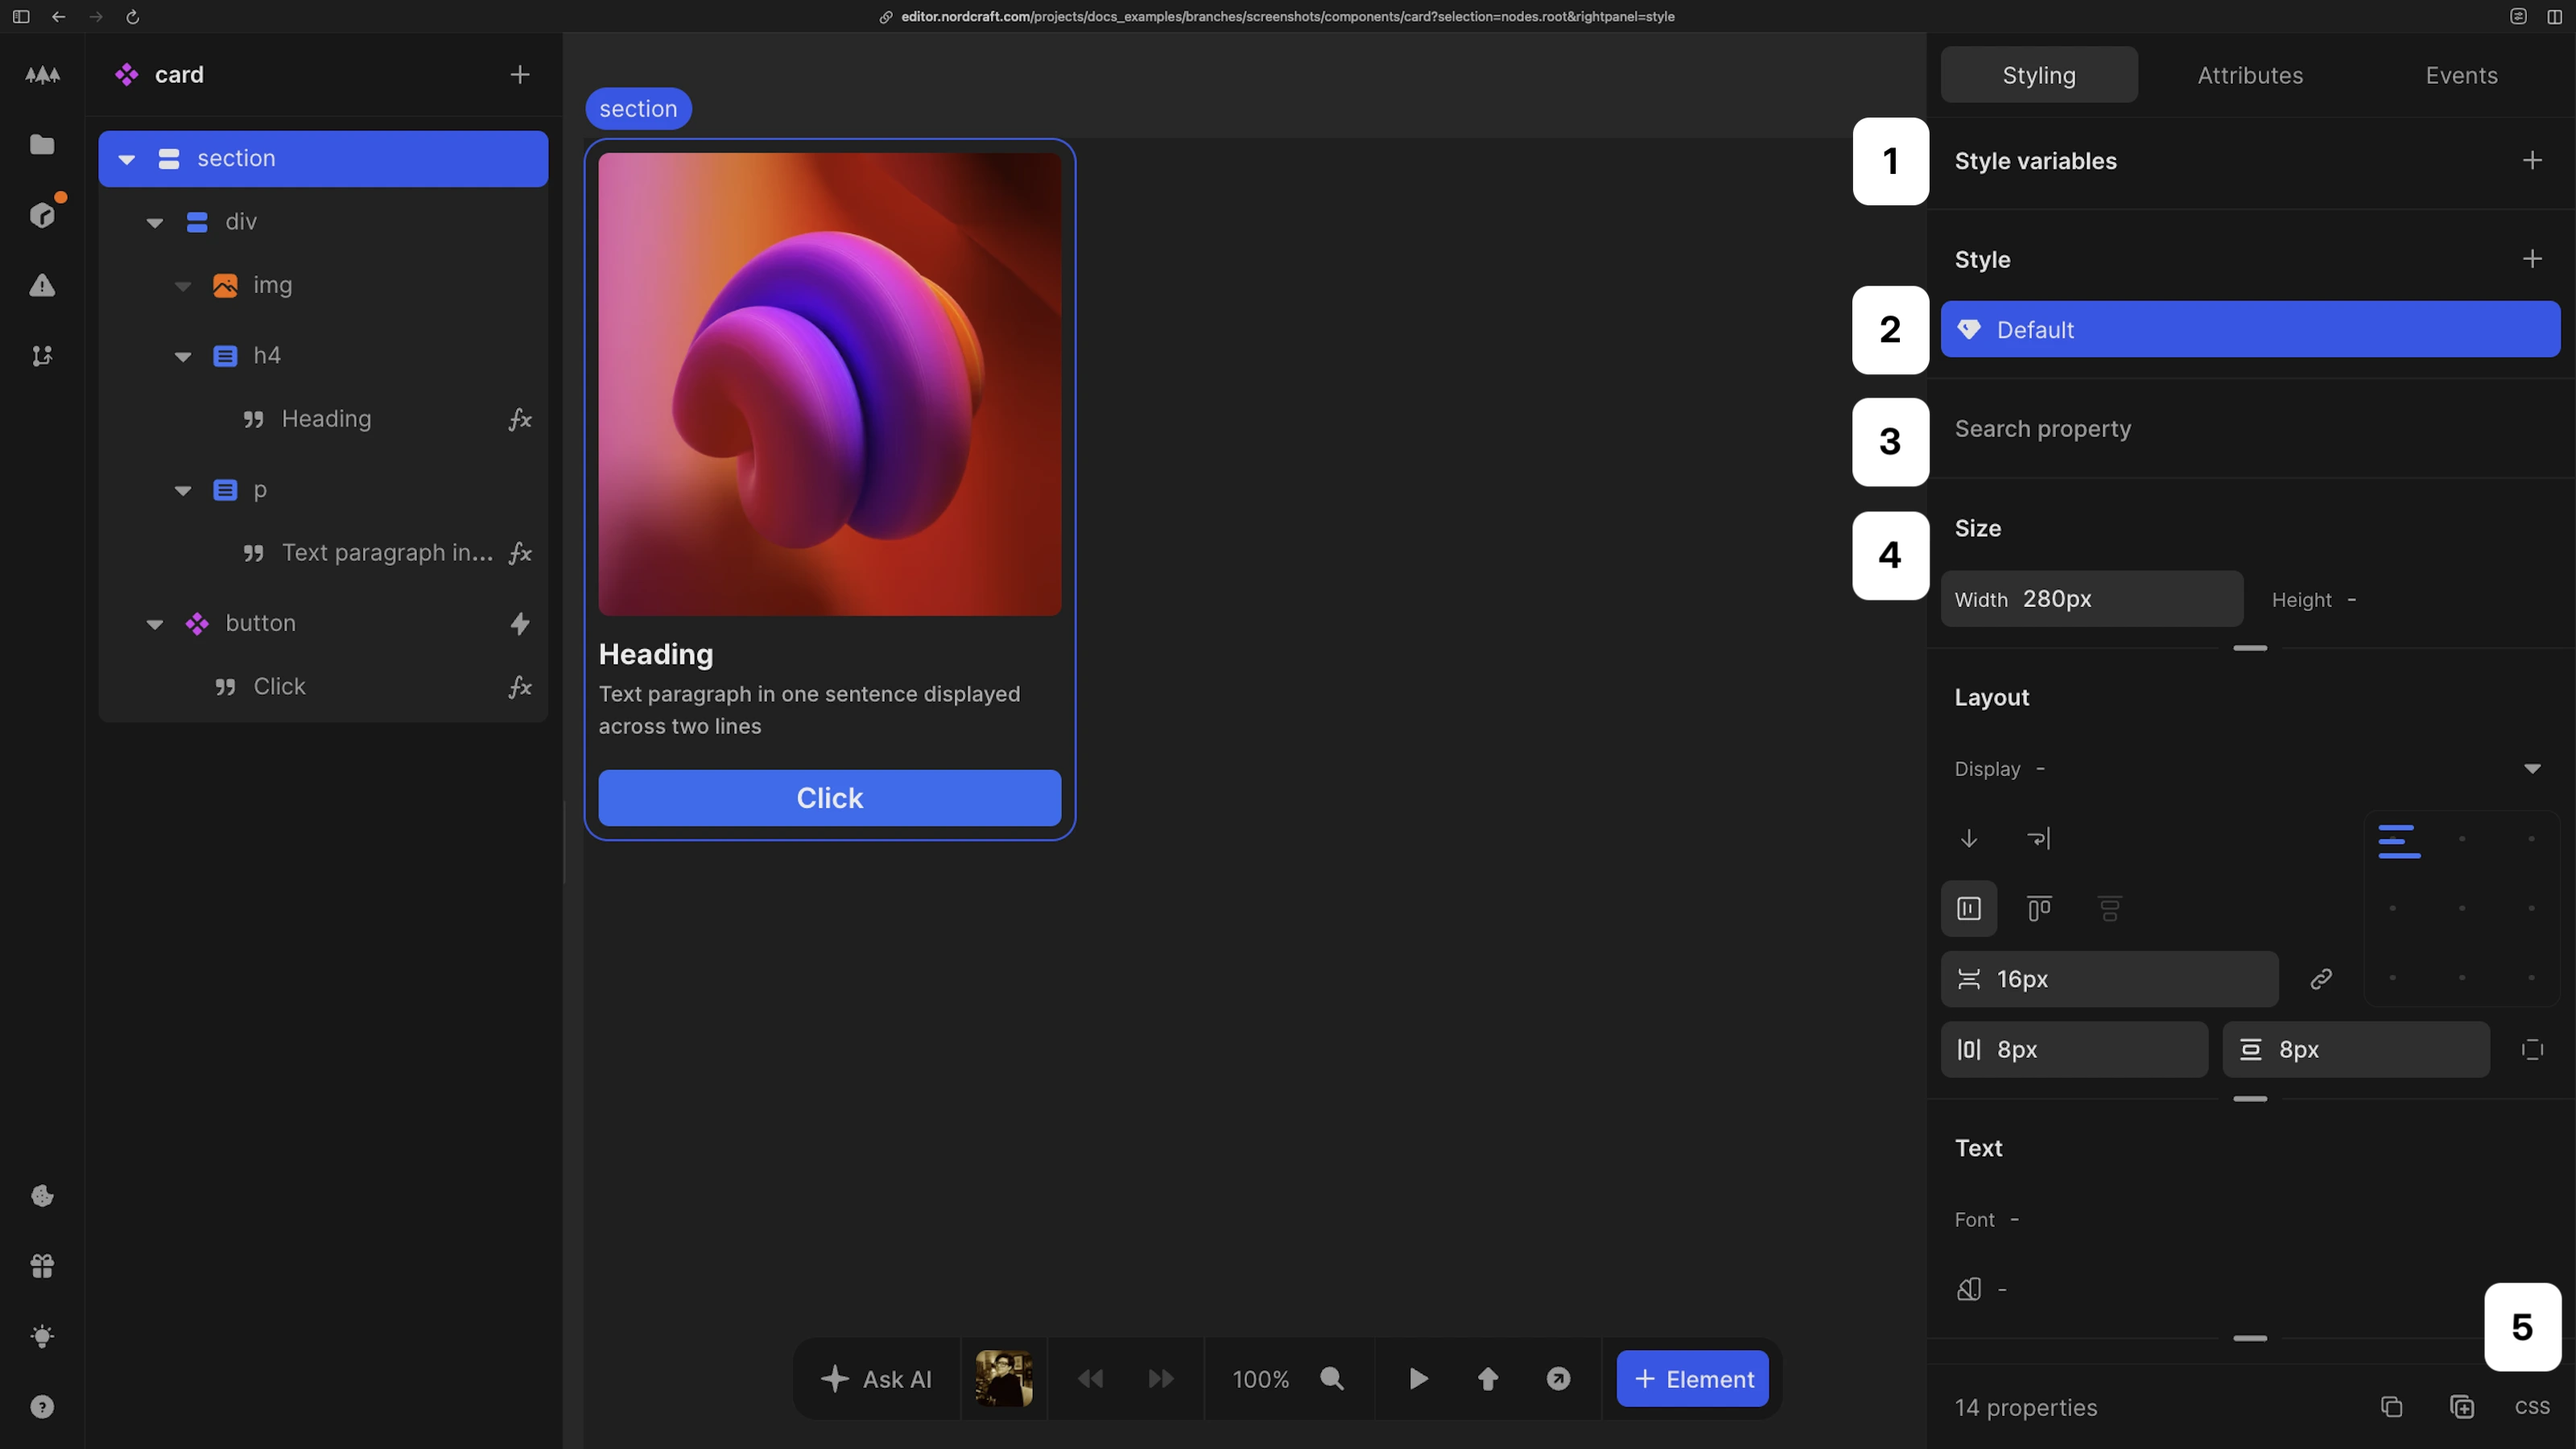
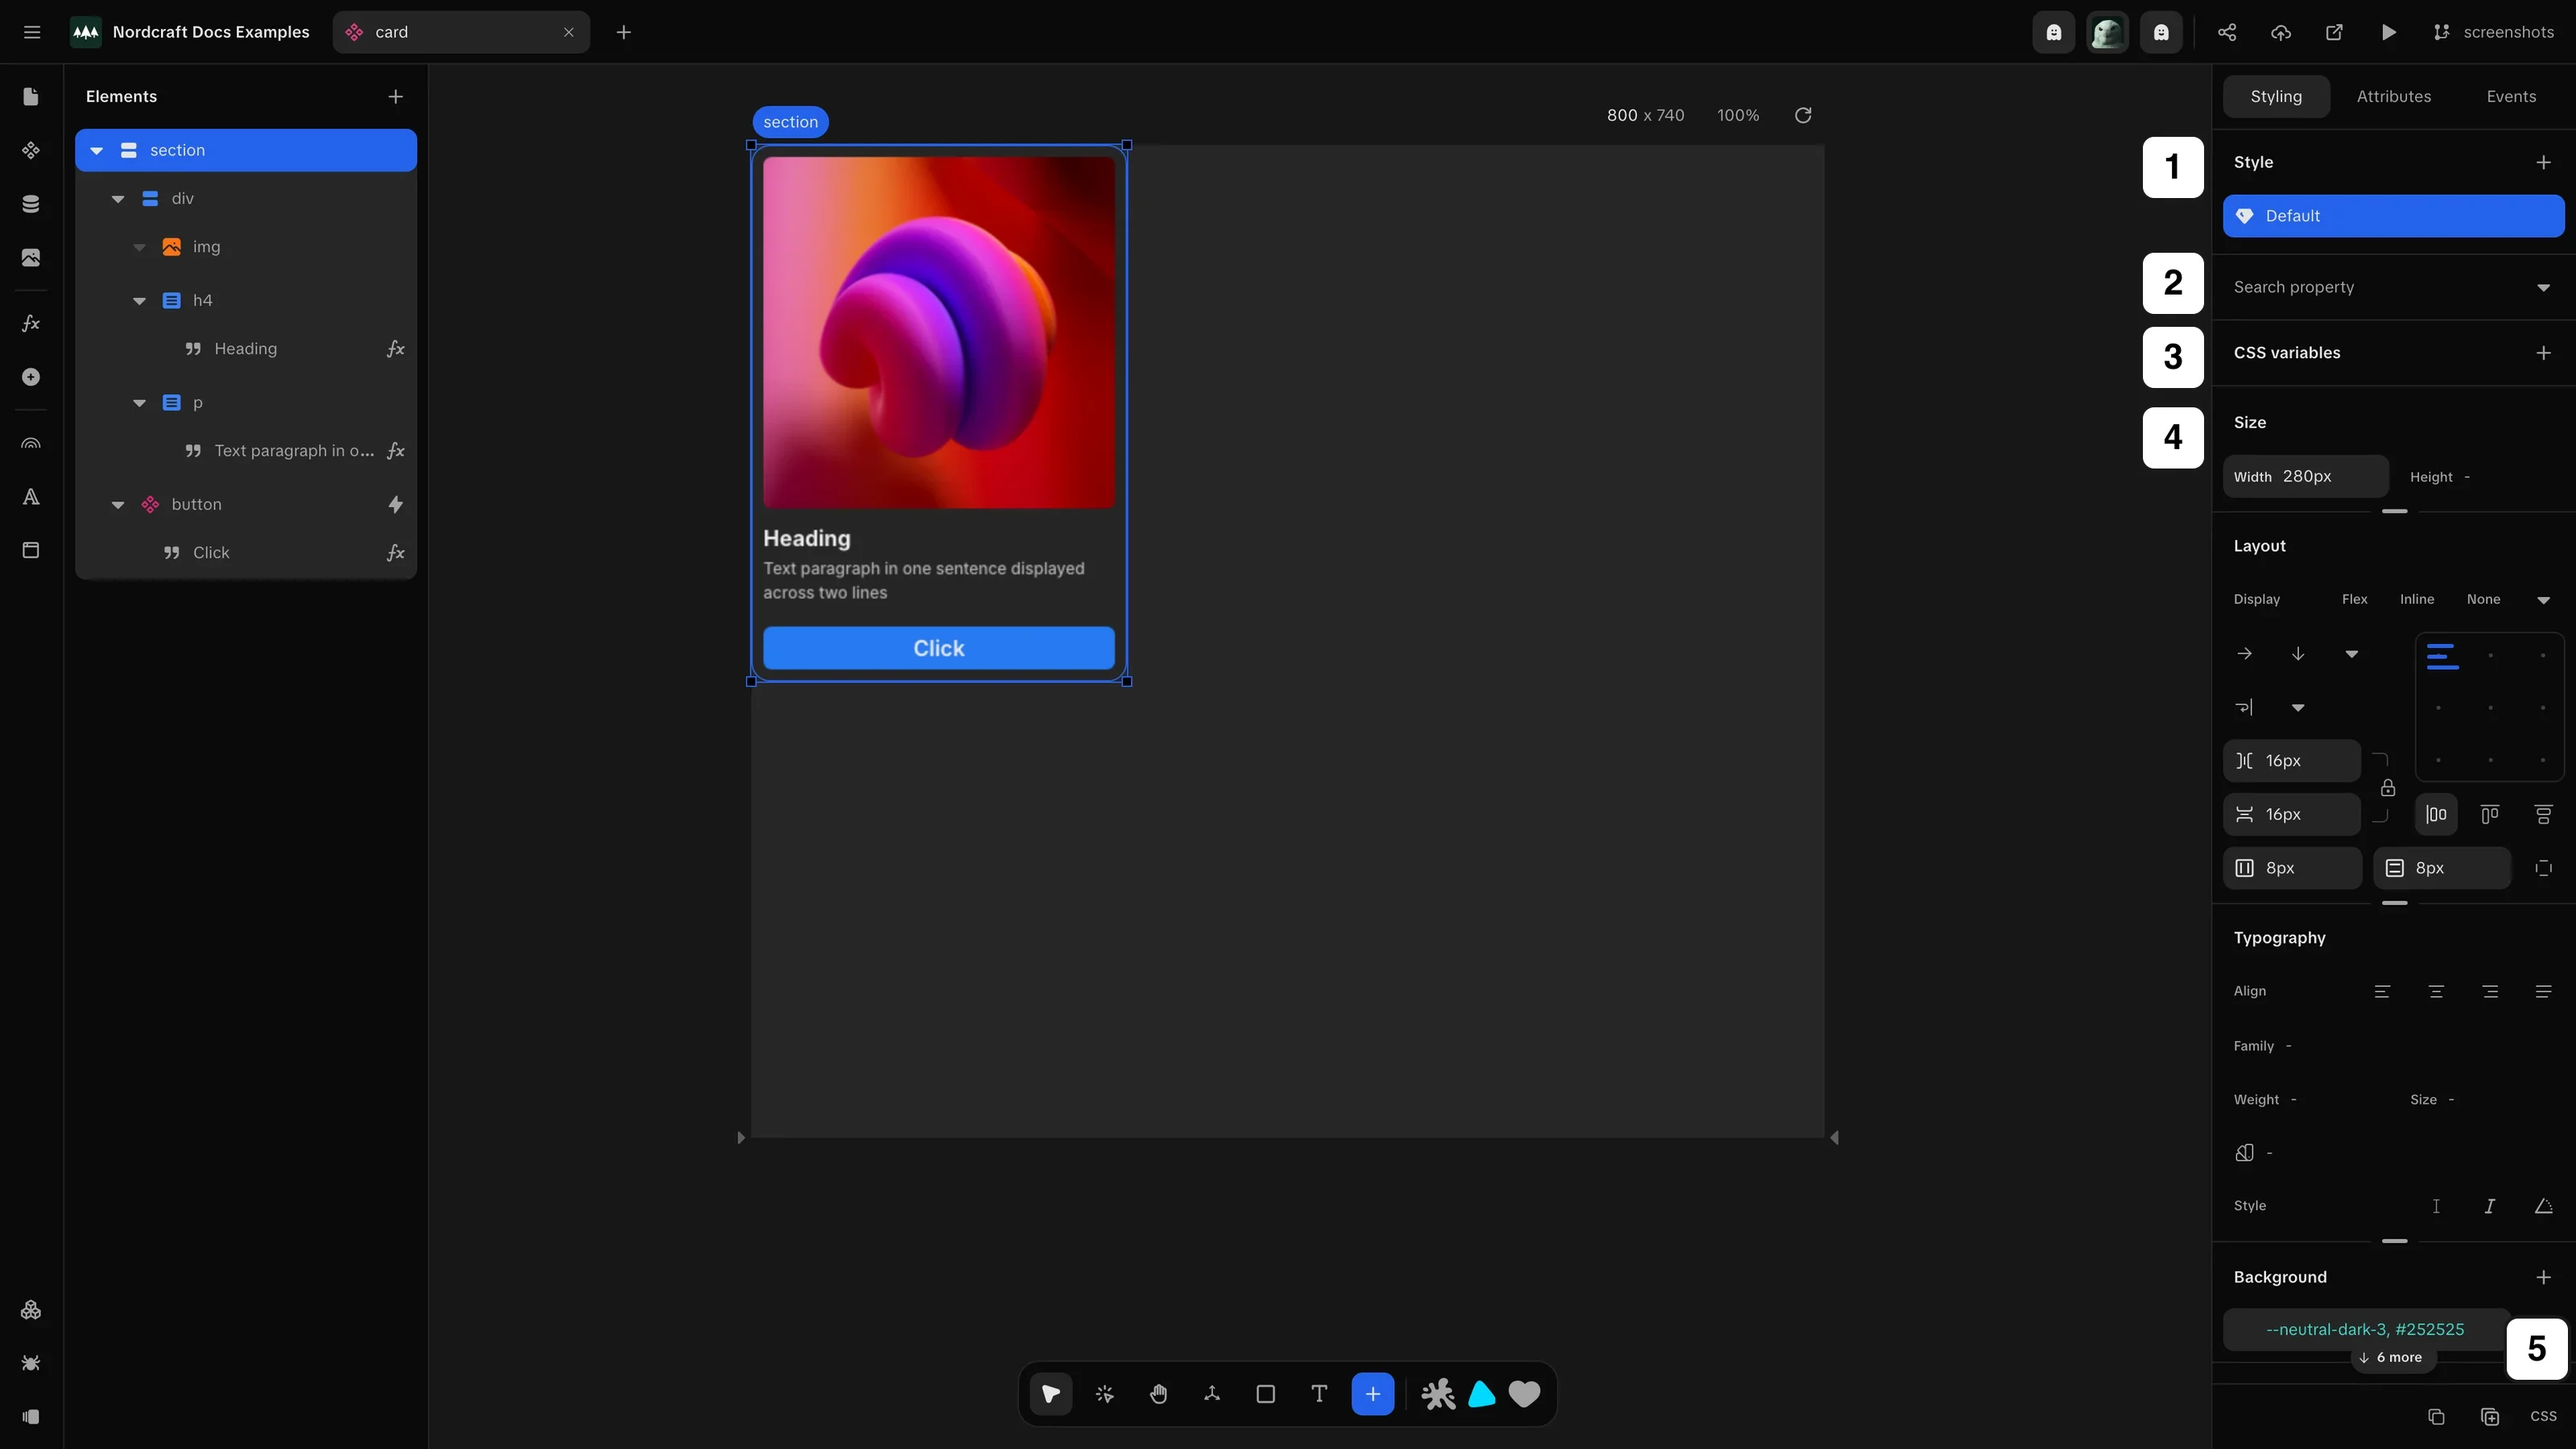
element styling

diff --git a/docs/the-editor/element-panel/element-panel-styling.screenshot.ts b/docs/the-editor/element-panel/element-panel-styling.screenshot.ts
@@ -1,0 +1,42 @@
+import { defineScreenshot } from '@/scripts/capture-screenshots'
+import type { Page } from 'playwright'
+
+// Placeholder script for element-panel-styling.webp
+export default defineScreenshot({
+  path: '/projects/docs_examples/branches/screenshots/components/card?mode=design&canvas-tool=select&canvas-width=800&selection=nodes.root&rightpanel=style',
+  setup: async (page: Page) => {
+    await page.waitForTimeout(500)
+  },
+  annotations: [
+    {
+      type: 'badge',
+      x: 665,
+      y: 42,
+      text: '1'
+    },
+    {
+      type: 'badge',
+      x: 665,
+      y: 78,
+      text: '2'
+    },
+    {
+      type: 'badge',
+      x: 665,
+      y: 101,
+      text: '3'
+    },
+    {
+      type: 'badge',
+      x: 665,
+      y: 126,
+      text: '4'
+    },
+    {
+      type: 'badge',
+      x: 778,
+      y: 409,
+      text: '5'
+    }
+  ],
+})
